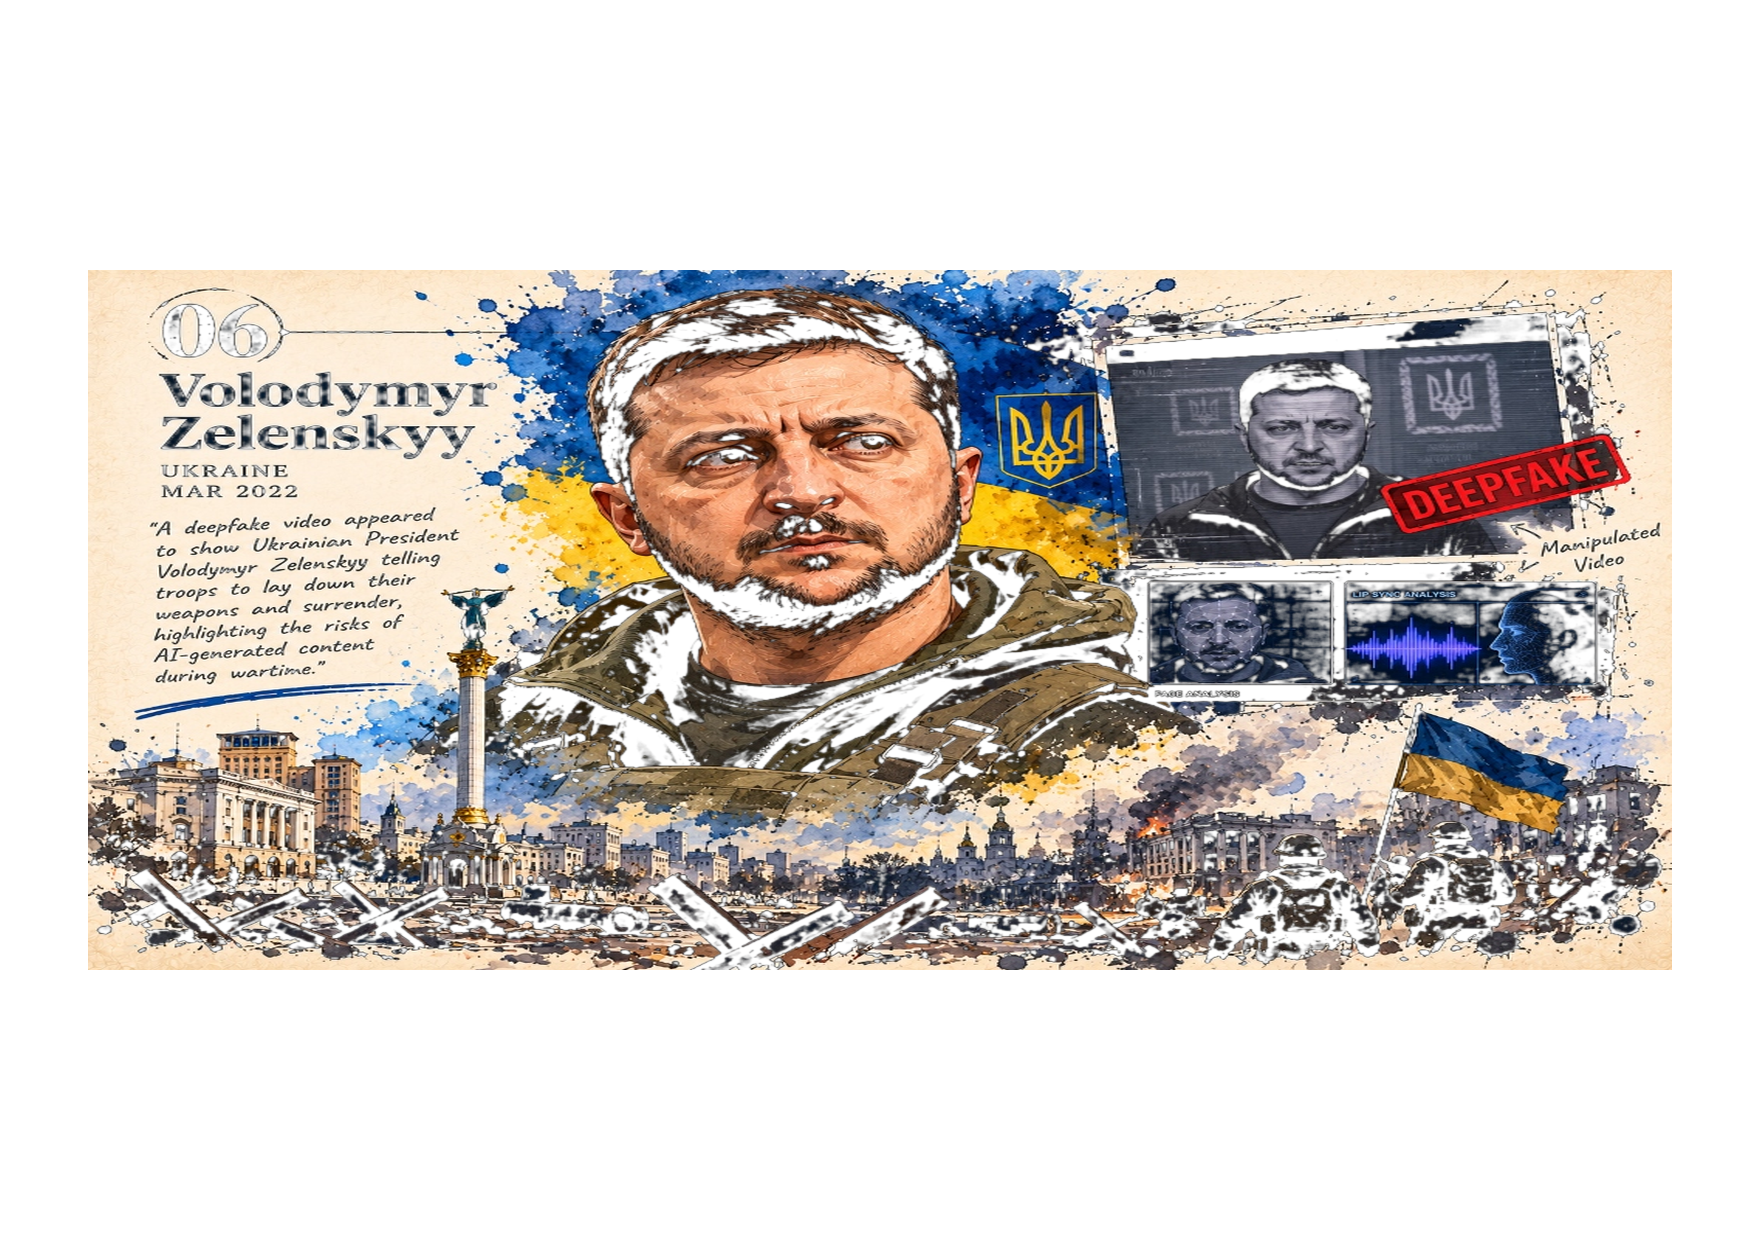
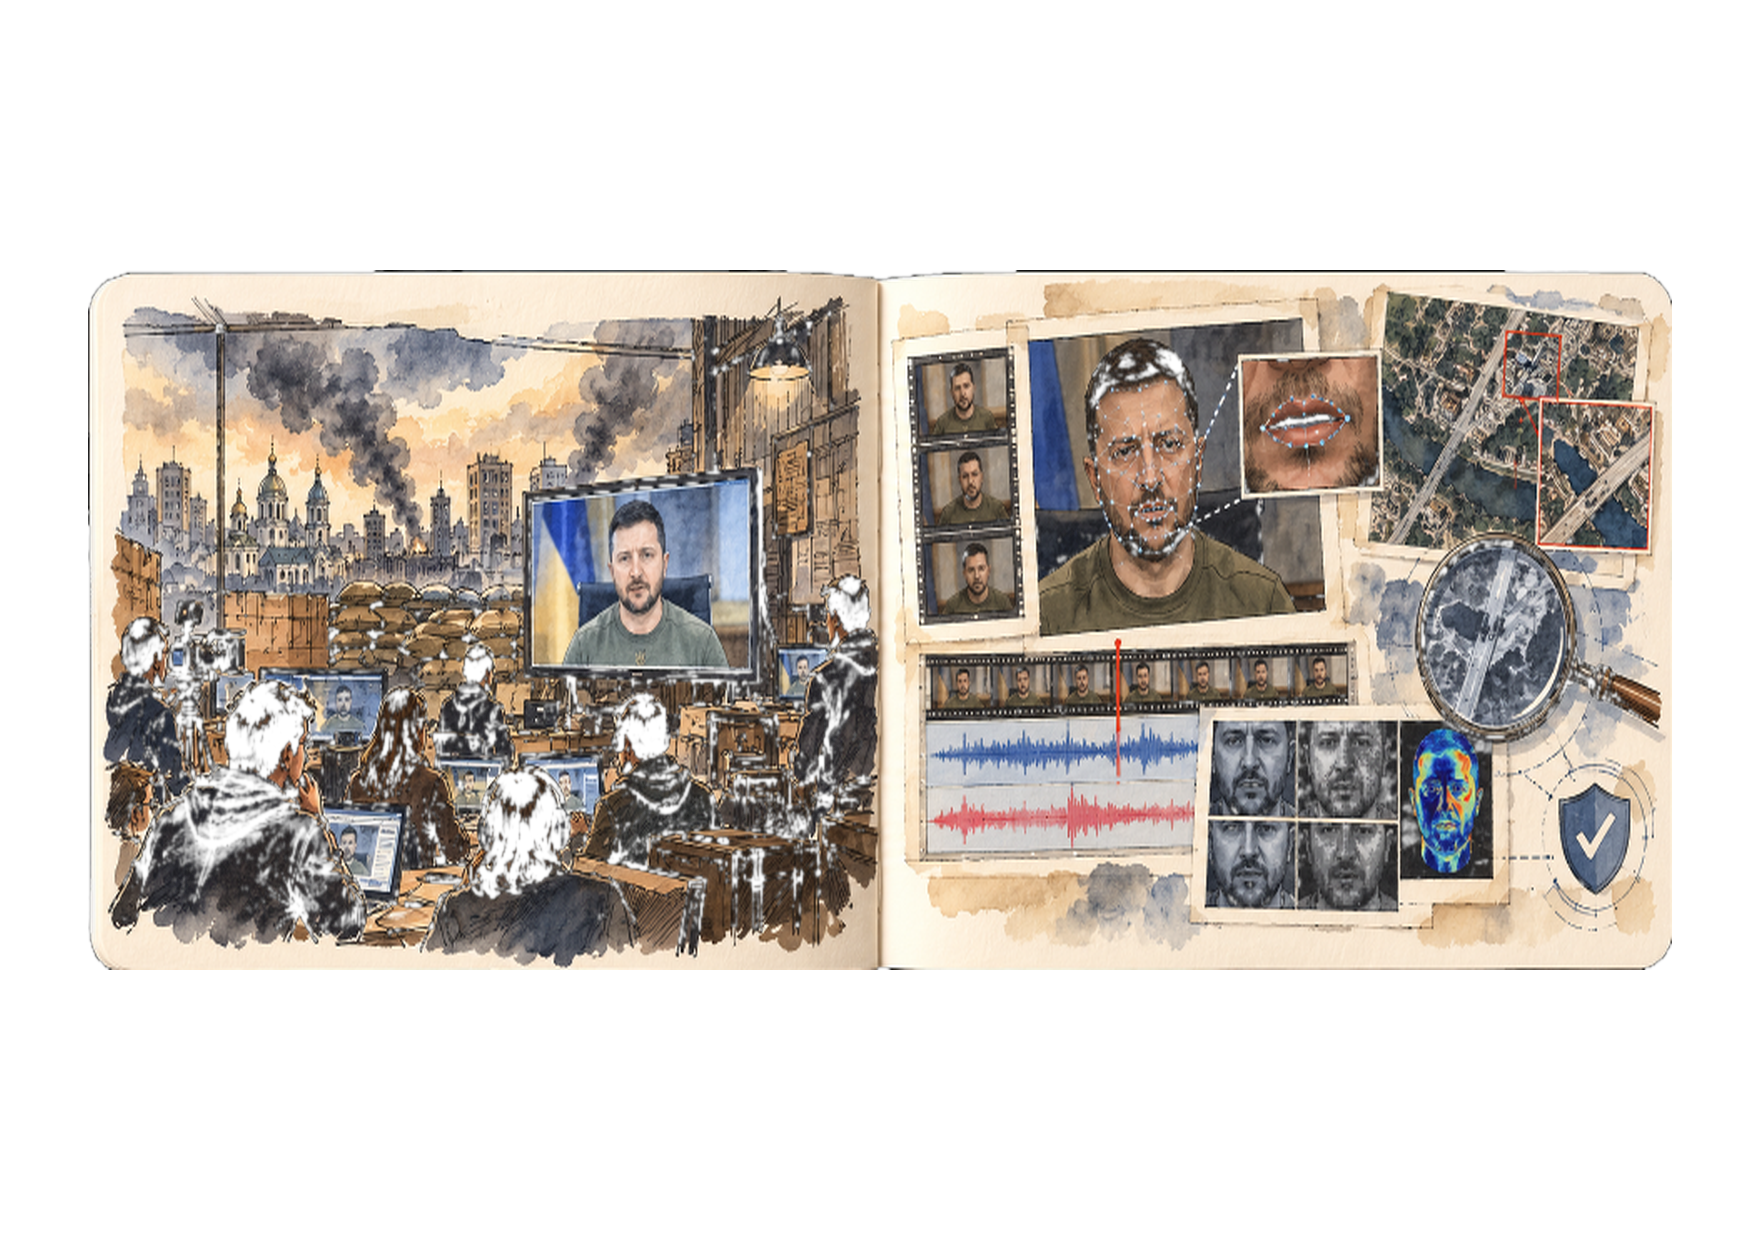
feat(sketchbook): integrate remaining plates 6 through 9 with pixel-perfect transparent canvas geometry

diff --git a/public/landing-pages/meng-to-sketchbook.html b/public/landing-pages/meng-to-sketchbook.html
@@ -3083,6 +3083,48 @@ const PAGES=[
       hash: '8219...4d61',
       software: 'Voice Transfer Model'
     }
+  },
+  {
+    file: 'case-08-tom-hanks.png',
+    title: "Tom Hanks' AI Advertisement",
+    place: 'United States',
+    category: 'Commercial Impersonation',
+    date: 'October 2023',
+    incident: 'Tom Hanks publicly warned that an advertisement promoting a dental plan used an AI-generated version of his likeness without his permission.',
+    impact: 'The incident raised concerns about celebrity impersonation, misleading advertising, consumer fraud, and the unauthorized commercial use of a person\'s image.',
+    researchAngle: 'Synthetic-face detection, source tracing, advertisement verification, and comparison against authorized promotional material.',
+    sources: [
+      { name: 'The Guardian', url: 'https://www.theguardian.com/film/2023/oct/02/tom-hanks-dental-ad-ai-version-fake?utm_source=chatgpt.com' }
+    ],
+    deviceMeta: {
+      location: 'Los Angeles, USA',
+      device: 'Commercial Stream Broadcast',
+      date: 'Oct 2023',
+      resolution: '1080p Digital Video',
+      hash: '7876...e95a',
+      software: 'Commercial Face Synthesis'
+    }
+  },
+  {
+    file: 'case-09-pope-puffer.png',
+    title: 'Pope Francis in AI Puffer Jacket',
+    place: 'Vatican City / Global',
+    category: 'Viral Misinformation',
+    date: 'March 2023',
+    incident: 'An AI-generated image depicting Pope Francis wearing a fashionable white puffer jacket circulated widely online, with many viewers initially believing it was authentic.',
+    impact: 'Demonstrated how realistic generative diffusion models blur the boundary between genuine photojournalism and fabricated scenes across global social feeds.',
+    researchAngle: 'AI-image detection, latent artifact analysis, image provenance, reverse-image search, and cross-source verification.',
+    sources: [
+      { name: 'AFP Fact Check', url: 'https://factcheck.afp.com/doc.afp.com.33C66F3?utm_source=chatgpt.com' }
+    ],
+    deviceMeta: {
+      location: 'Vatican City / Global',
+      device: 'Generative Latent Engine',
+      date: 'Mar 2023',
+      resolution: '2048 × 2048 (Diffusion)',
+      hash: 'fb02...d2f2',
+      software: 'Midjourney v5'
+    }
   }
 ];
 PAGES.forEach(p=>p.url=DIR+p.file);
